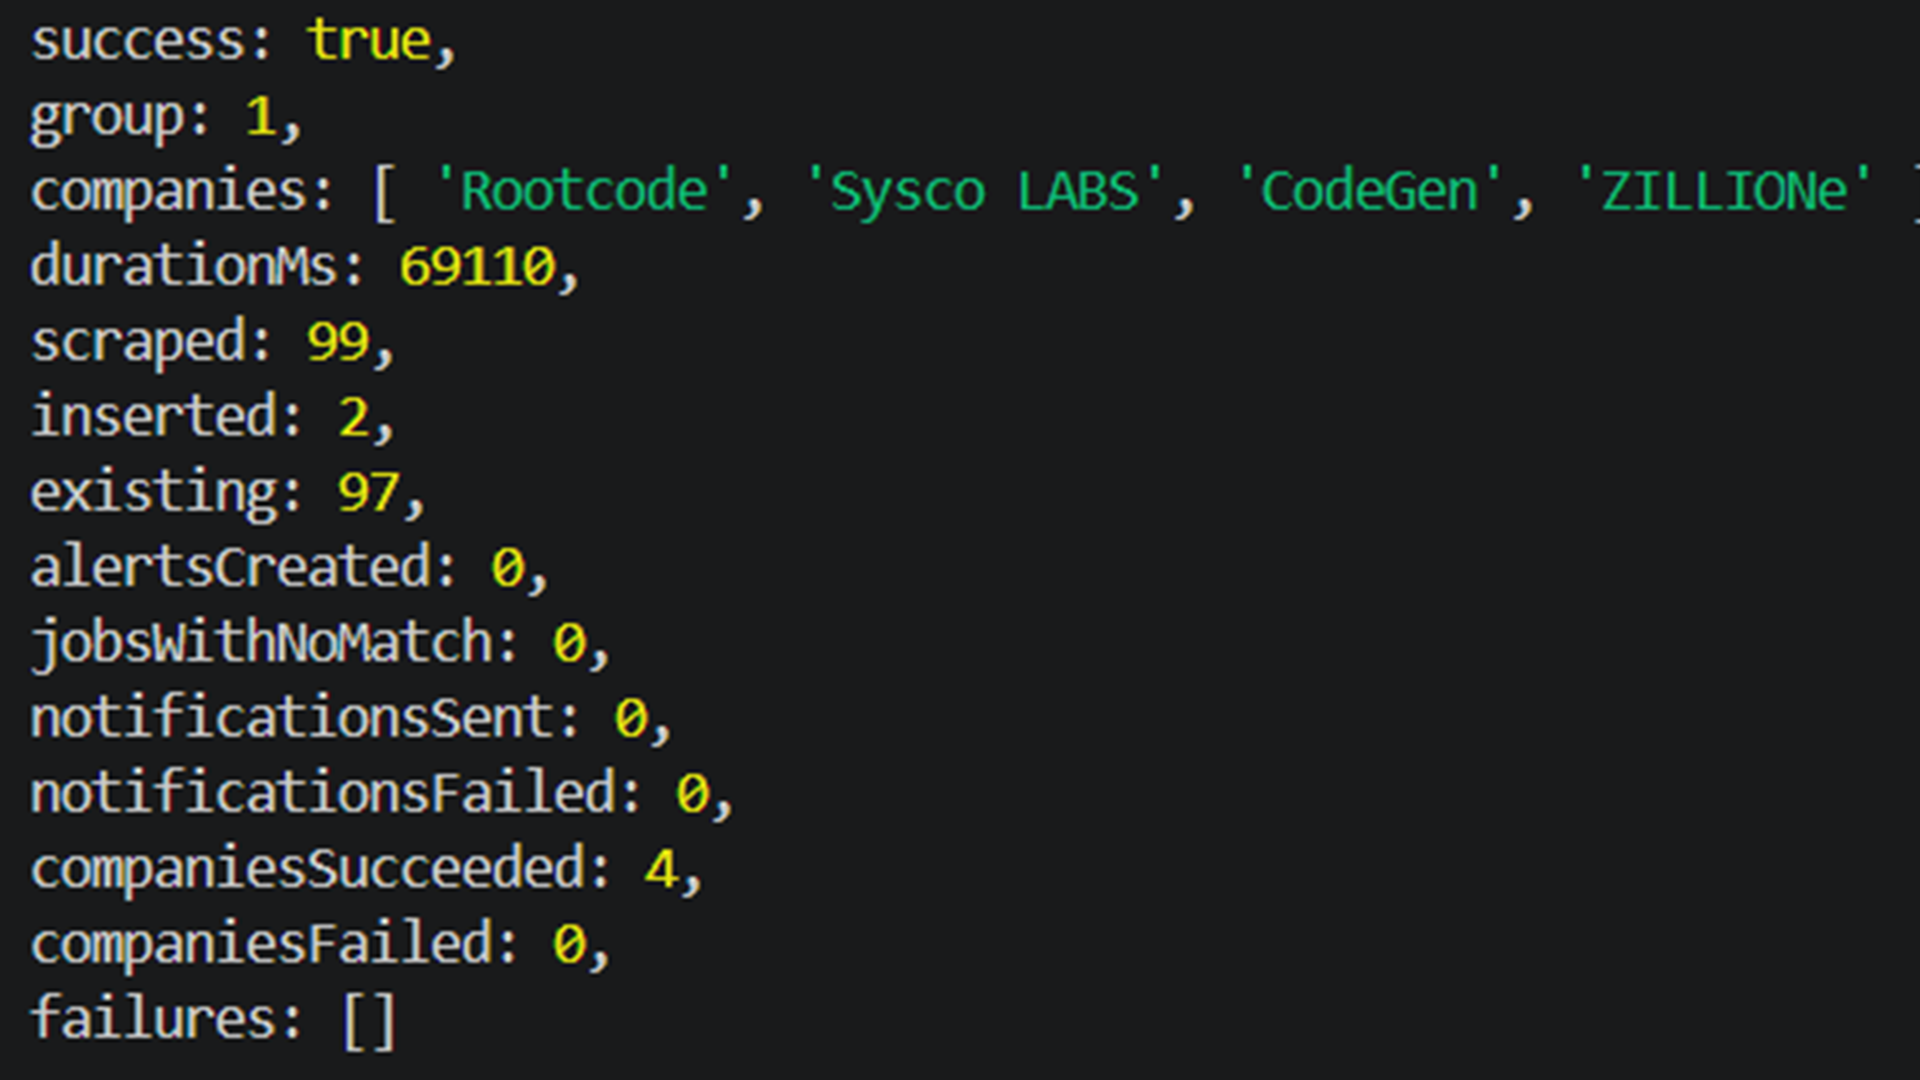
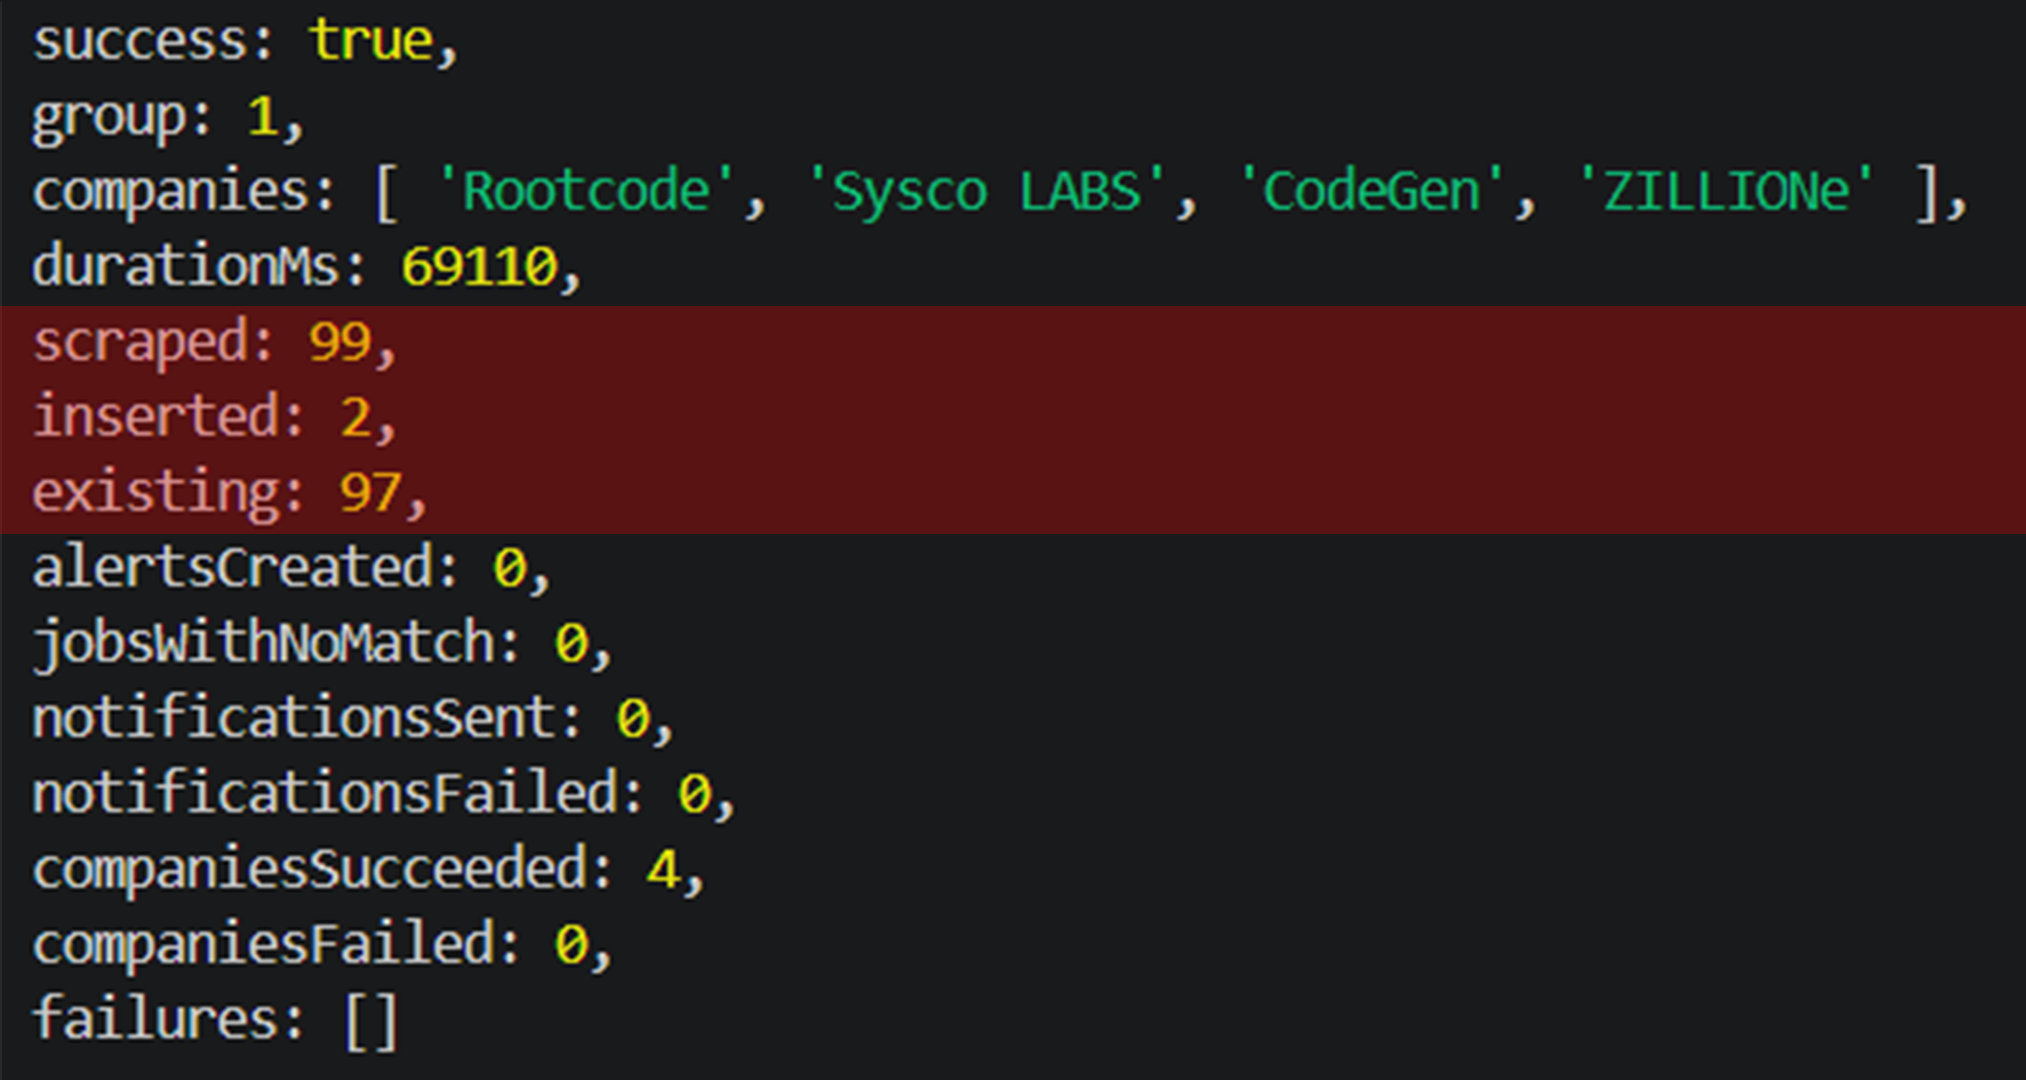
Screenshot resizing

diff --git a/README.MD b/README.MD
@@ -103,7 +103,7 @@ JobSeek searches and classifies vacancies across **9 career fields**:
 * Human Resources
 * Project Management
 
-<img src="public/screenshots/fields.png" alt="Fields">
+<img src="public/screenshots/fields.png" alt="Fields"  width="350">
 
 Each field is powered by **80+ carefully defined keywords**, covering different job titles, technologies, and terminology used across company career pages.
 
